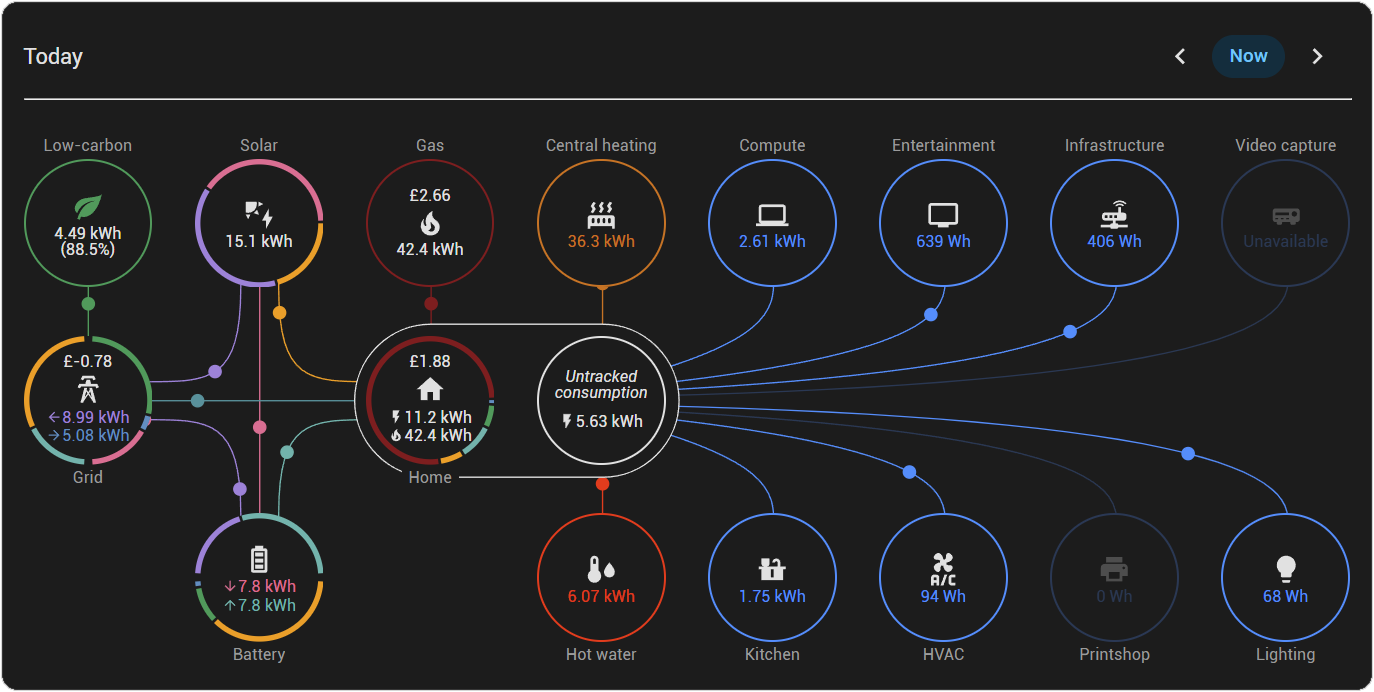
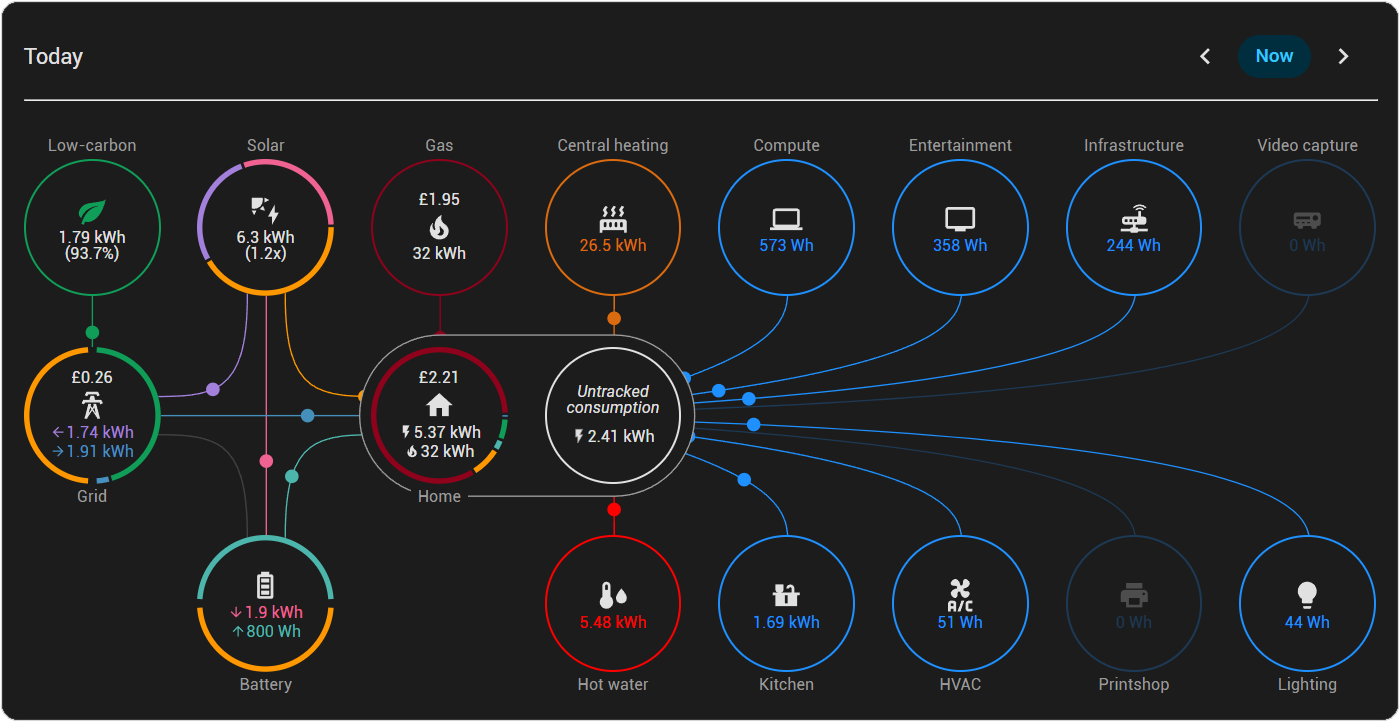
Added user-guide; fixed some minor bugs

diff --git a/src/states/entity-states.ts b/src/states/entity-states.ts
@@ -1,4 +1,4 @@
-import { HomeAssistant } from "custom-card-helpers";
+import { HomeAssistant, round } from "custom-card-helpers";
 import { HassEntity, UnsubscribeFunc } from "home-assistant-js-websocket";
 import { EnergyCollection, EnergyData, EnergyPreferences, EnergySource, Statistics, StatisticValue } from "@/hass";
 import { AppearanceOptions, DeviceConfig, EditorPages, EnergyDistributionExtConfig, EnergyUnitsConfig, EnergyUnitsOptions, FlowsOptions, GlobalOptions, NodeConfig } from "@/config";
@@ -18,7 +18,7 @@ import { DEFAULT_CONFIG, getConfigObjects, getConfigValue } from "@/config/confi
 import { calculateDateRange, calculateNextDateRange, calculatePreviousDateRange } from "@/dates";
 import { Node } from "@/nodes/node";
 import { GridNode } from "@/nodes/grid";
-import { POWER_UNITS } from "@/const";
+import { MAX_DECIMALS, POWER_UNITS } from "@/const";
 
 //================================================================================================================================================================================//
 
@@ -1134,6 +1134,13 @@ export class EntityStates {
         gasVolumeValues.push(deviceVolumeState.import, deviceVolumeState.export);
       }
     });
+
+    states.homeElectric = round(states.homeElectric, MAX_DECIMALS);
+    states.homeGas = round(states.homeGas, MAX_DECIMALS);
+    states.homeGasVolume = round(states.homeGasVolume, MAX_DECIMALS);
+    states.untrackedElectric = round(states.untrackedElectric, MAX_DECIMALS);
+    states.untrackedGas = round(states.untrackedGas, MAX_DECIMALS);
+    states.untrackedGasVolume = round(states.untrackedGasVolume, MAX_DECIMALS);
 
     electricValues.push(states.homeElectric);
     gasValues.push(states.homeGas);

diff --git a/src/nodes/node.ts b/src/nodes/node.ts
@@ -256,7 +256,11 @@ export abstract class Node<T> {
   //================================================================================================================================================================================//
 
   private _renderSecondaryState(config: SecondaryInfoConfig[], entityId: string, state: number): string {
-    if (state === null || isNaN(state)) {
+    if (state === null) {
+      return localize("common.unavailable");
+    }
+
+    if (isNaN(state)) {
       return localize("common.unknown");
     }
 
@@ -357,7 +361,7 @@ export abstract class Node<T> {
                     offset = groupIdx * (groupLength + interGroupLength) + startingOffset + interGroupLength;
                   }
 
-                  if (segment.state === 0) {
+                  if (segment.state <= 0) {
                     return ``;
                   }
 

diff --git a/docs/guide/user-guide.md b/docs/guide/user-guide.md
@@ -1,0 +1,144 @@
+# User Guide
+
+This is a brief guide to the functionality of the card.  The best way to learn what it can do for you is to play around with the settings yourself - what follows here is to highlight some functionality and explain some behaviour which may seen non-obvious at first!
+
+## Contents
+
+### [The Card](#the-card)
+
+### [Configuration](#configuration)
+
+---
+
+# The Card
+
+The card is divided into a number of areas:
+
+![Image4.png](../images/Image4.png)
+
+Most of these are optional - the only one shown at all times is the 'Main display', which holds your primary energy/power sources and storage and of course your home.  The others are shown as needed by your configuration.
+
+---
+
+## Nodes
+
+Each node in your system is represented by a circle on the card - 'Solar', 'Grid', 'Home' and so on - and is joined to one or more other nodes by flow-lines representing the ways in which energy/power is distributed throughout your setup.
+
+The appearance and behaviour of the nodes is highly configurable; different nodes support slightly different options but they all have things in common:
+
+![Image5.png](../images/Image5.png)
+
+You can change the node's label; its icon; the way in which the circle is rendered; the colours; and what secondary data is displayed.
+
+The circle may be a single colour or - as shown in the example - segmented, where the segments represent different proportions of energy/power.  This behaviour can be enabled for each of the 'Solar', 'Grid', 'Battery' and 'Home' nodes independently, and has slightly different meanings in each:
+
+- In Solar, the segments represent where the generated energy/power is going: to the Home (yellow); to the Battery (pink); or to the Grid (purple)
+- In Grid
+  - If in 'Energy' mode and both import and export are configured the circle is divided into two:
+    - the half that faces the centre of the Main display represents energy imported from the grid, and the segments denote its destination - Battery in purple and Home in blue (and green if low-carbon energy is present)
+    - the other half represents tne energy being exported to the grid, and the segments show where it originated: Battery in cyan and Solar in yellow
+  - If only import or export is configured, or if the card is in 'Power' mode, the entire circle is used to display the segments
+- In Battery, the half of the circle facing the centre of the Main display represents discharge and the other half represents charge; as with the other nodes, the colours indicate the destination/origin respectivel
+- In Home the segments represent the origin of the energy/power being used
+
+> Note that the relative sizes of the segments in a circle - or half-circle - should not be compared to the sizes of the segments in other circles.  They represent a proportion of the total value displayed in this circle only.
+
+Some nodes display only a single primary value - for example, 'Gas' - and others, like the one shown, display two.
+
+> All values are numeric: the card does not support displaying non-numeric entities such as text or dates.  If a value cannot be read from the entity, 'Unavailable' is shown instead.  In 'Energy' mode, if the value is negative - something which is by definition impossible - 'Unknown' is displayed.  In 'Power mode' if the node isn't doing anything, 'Idle' is displayed rather than zero.
+
+Primary values are read from the main entities defined for the node: all nodes support multiple primary entities, and their values are summed for display.  Secondary values support only a single entity.
+
+> In 'Energy' mode, entities - both primary and secondary - must have a StateClass of either 'Total' or 'Total_Increasing'.  Primary entities must have a DeviceClass of 'Energy'.
+> 
+> In 'Power' mode entities must have a StateClass of 'Measurement'.  Primary entities must have a DeviceClass of 'Power'.
+> 
+> These are intentional limitations, particularly in the case of 'Energy' mode, as in this mode the card is displaying state over a period of time and a non-time-based entity such as a 'Measurement' would have no meaning.
+
+Node-specific behaviour is detailed in the next secion.
+
+---
+
+## Home
+
+The Home node displays the total amount of energy/power in your home.  By default, it displays only the electric total, but you may configure it to show the gas total as well:
+
+![Image9.png](../images/Image9.png)
+
+Gas can be added to the total value shown or, as above, displayed separately.  In both cases the gas usage is added to the segments of the circle.
+
+---
+
+## Solar
+
+The Solar node can be configured to show the ratio of solar energy/power generated to electricity consumed by your home:
+
+![Image10.png](../images/Image10.png)
+
+---
+
+## Battery
+
+In 'Power' mode if the secondary entity configured for the Battery node is a state-of-charge entity, its value will be used to control the default icon for the node:
+
+![Image13.png](../images/Image13.png)
+
+---
+
+## Devices
+
+In addition to the built-in set of nodes (Solar, Battery, Grid, Home, Gas, Low-carbon) you may define your own 'Device' nodes.  Each of these represents something connected to your home which consumes or produces energy.  A Device may be either electric or gas, and may consume, produce or do both.  Any number of devices may be configured, subject to your having enough screen-area to display them all! 
+
+Each Device may be configured to have its consumption subtracted from the Home node's total: this will cause the Home node to look like this:
+
+![Image8.png](../images/Image8.png)
+
+The left-hand side displays the totals for the Home as before; the right-hand side displays any remaining 'untracked' energy/power after subtracting the consuming Devices.
+
+
+---
+
+# Configuration
+
+The most important options are on the main page:
+
+![Image6.png](../images/Image6.png)
+
+If 'Energy' mode is selected you can choose whether the date-range to show is taken from the HASS Energy Dashboard Date Selector card or is set to a pre-defined value: 'Today', 'This Week', 'This Month' and so on.
+
+By default the card will only show values from HASS statistics - the same behaviour as the HASS Energy Dashboard - but by enabling live sensor data you can see the up-to-date values of the sensors, rather than having to wait for the next hourly refresh of the statistics database.
+
+The selected date-range can be displayed at the top of the card, optionally with controls to page it back and forth.
+
+> Note that the controls will not be shown if the Energy Dashboard Date Selector is chosen, since its controls take precedence.
+
+If 'Use the Energy Dashboard configuration' is enabled, all energy/power entities configured in your HASS system's Energy Dashboard are loaded automatically.  These will not be displayed in the 'entities' fields of each node, so you cannot delete them by accident!  You can add more entities to these nodes as you like, and their values will be added onto the values from the HASS entities.
+
+> Note that the 'Individual electric devices' configured on the HASS Energy Dashboard will not be loaded: these are not supported by this card.
+
+---
+
+Each node has its own configuration page, accessed by clicking on its name in the list.  Nodes display their configuration status by means of an icon:
+
+- Nodes which are configured correctly have a green 'tick' after them, as in the image above
+- Nodes which have errors in their config which prevent them from being shown in the card have a red icon
+- Nodes which have problems which may prevent them from being shown as intended have a yellow icon
+- Nodes which are not configured for display have no icon
+
+All nodes share some common configuration, although the exact set of options may vary by node:
+
+![Image7.png](../images/Image7.png)
+
+---
+
+## Devices
+
+The Device editor allows you to add, remove, edit and re-order your Devices:
+
+![Image11.png](../images/Image11.png)
+
+Devices are re-ordered by dragging them to their new position.  As with the main configuration page, the status icons indicate whether the Device's config is valid.
+
+To edit a Device, click on its link to open the editor page:
+
+![Image12.png](../images/Image12.png)

diff --git a/README.md b/README.md
@@ -2,7 +2,7 @@
 
 ![GitHub release (latest by date)](https://img.shields.io/github/v/release/alex-taylor/energy-distribution-ext?style=flat-square)
 ![GitHub all releases](https://img.shields.io/github/downloads/alex-taylor/energy-distribution-ext/total?style=flat-square)
-[![hacs_badge](https://img.shields.io/badge/HACS-Default-41BDF5.svg?style=flat-square)](https://github.com/hacs/integration)
+<!--[![hacs_badge](https://img.shields.io/badge/HACS-Default-41BDF5.svg?style=flat-square)](https://github.com/hacs/integration)-->
 ![commit_activity](https://img.shields.io/github/commit-activity/y/alex-taylor/energy-distribution-ext?color=brightgreen&label=Commits&style=flat-square)
 
 ### An upgraded and configurable Energy Distribution Card, with a raft of new features and improvements. It supports both Energy and Power flows, additional Devices and live sensor-data display.
@@ -19,9 +19,9 @@
 
 ### [Getting started](#getting-started)
 
-### [User guide](docs/user-guide.md)
+### [User guide](docs/guide/user-guide.md)
 
-### [Reference manual](docs/config.md)
+### [Reference manual](docs/reference/config.md)
 
 ---
 
@@ -67,9 +67,9 @@
 ---
 
 ## Installation
-
 ### HACS (recommended)
-
+Coming soon - for the moment, please use the manual installation instructions below.
+<!--
 This card is available in [HACS](https://hacs.xyz/) (Home Assistant Community Store).
 
 _HACS is a third party community store and is not included in Home Assistant out of the box. To install it, please follow their instructions [here](https://www.hacs.xyz/docs/use/)._
@@ -79,7 +79,7 @@ To install:
 - Go to [HACS](http://home-assistant.local:8123/hacs/dashboard) in your Home Assistant
 - Search for `Energy Distribution Extended`
 - Install via the UI
-
+-->
 <details>
 
 <summary>Manual Install</summary>
@@ -119,9 +119,9 @@ If you use the graphical editor, add the resource:
 ### If that is all you need then no additional configuration is needed!  But it offers many more options for customisation...
 ![Image3.png](docs/images/Image3.png)
 
+### The best way to figure out what you want the card to do for you is to have a play around with the settings, but it's also worth having a quick look at the [User Guide](docs/guide/user-guide.md) for hints and tips on how to get the most out of it!
+
 > Clicking on 'Load default config' will reset the card to its out-of-the-box settings. Clicking on 'Load showroom config' will enable most of the new functionality.
 > > Both of these buttons will replace any existing configuration.
 
-### The best way to figure out what you want the card to do for you is to have a play around with the settings, but it's also worth having a quick look at the [User Guide](docs/user-guide.md) for hints and tips on how to get the most out of it!
-
-### Everything can be configured using the UI, but if you feel more at home in YAML, see the [Reference Manual](docs/config.md) for full details.
+### Everything can be configured using the UI, but if you feel more at home in YAML, see the [Reference Manual](docs/reference/config.md) for full details.

diff --git a/CHANGELOG.md b/CHANGELOG.md
@@ -1,6 +1,6 @@
 
 # Change Log
 
-## [1.0.0] - 2026-03-xx
+## [1.0.0] - 2026-03-31
 
 First release.
